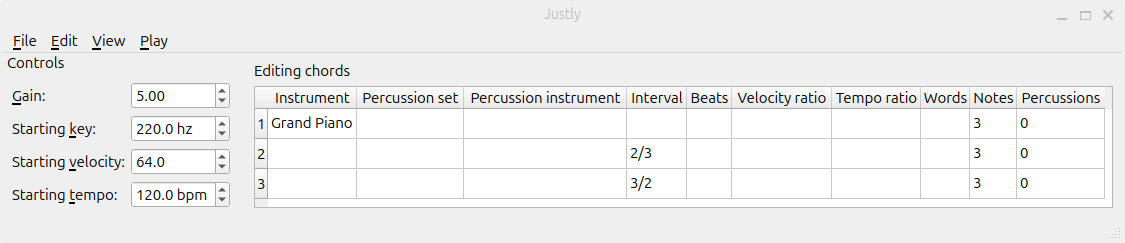
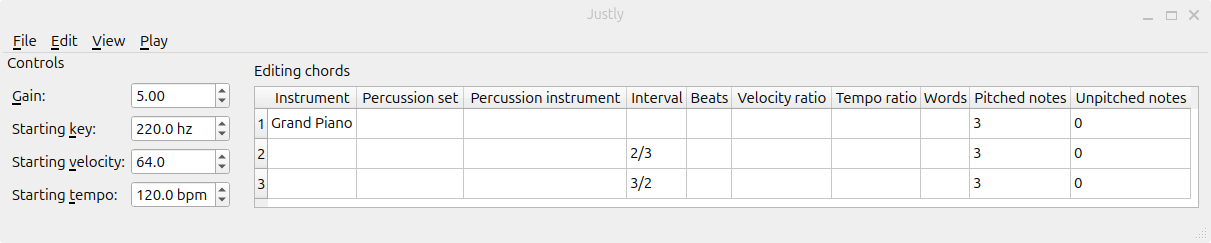
docs

diff --git a/README.md b/README.md
@@ -94,7 +94,6 @@ You can use any of the instruments included with [MuseScore soundfont](https://f
 
 ### Chords, pitched notes, and unpitched notes
 
-In Justly, there are three units: a "chord", a "pitched note", and an "unpitched note".
 A chord is a set of pitched and unpitched notes that begin playing simulataneously.
 
 Chords have the following fields, each corresponding to a column:
@@ -102,7 +101,7 @@ Chords have the following fields, each corresponding to a column:
 - "Instrument": If not empty, changes the default instrument for pitched notes (see below).
 - "Percussion set": If not empty, changes the default percussion set for unpitched notes (see below).
 - "Percussion instrument": If not empty, changes the default percussion instrument for unpitched notes (see below).
-- "Interval": The modulation of the current key. Changing the interval of a chord changes the key of all future chords.
+- "Interval": Multiplies the current key by this ratio. Changing the interval of a chord changes the key of all future chords.
 - "Beats": The number of beats until the next chord starts.
 - "Velocity ratio": Multiplies the current velocity by this ratio. Changing the velocity ratio of a chord changes the velocity of all future chords.
 - "Tempo ratio": Multiplies the current tempo by this ratio. Changing the tempo ratio of a chord changes the tempo of all future chords.
@@ -114,11 +113,12 @@ Both pitched and unpitched notes both have the following fields:
 
 - "Beats": When the chord starts, each note in the chord will play for its number of beats.
 - "Velocity ratio": Multiplies the note velocity by this ratio. Changing the velocity ratio of a note does not change the current velocity.
+- "Words": text associated with the pitched note.
 
 Pitched notes have the following additional fields.
 
 - "Instrument": The instrument of the pitched note. If empty, Justly will use the default instrument for the chord (see above).
-- "Words": text associated with the pitched note.
+- "Interval": A note's pitch is its interval times the current key. Changing the interval of a pitched note does not change the current velocity.
 
 On the other hand, unpitched notes have the following additional fields.
 
@@ -133,7 +133,6 @@ You can edit the gain, starting key, starting velocity, and starting tempo using
 
 ### Table editor
 
-You can use the table editor to edit chords, pitched notes, or unpitched notes.
 Each row of a table represents a unit: a chord, pitched note, or unpitched note.
 
 You can select a single cell by clicking on it.
